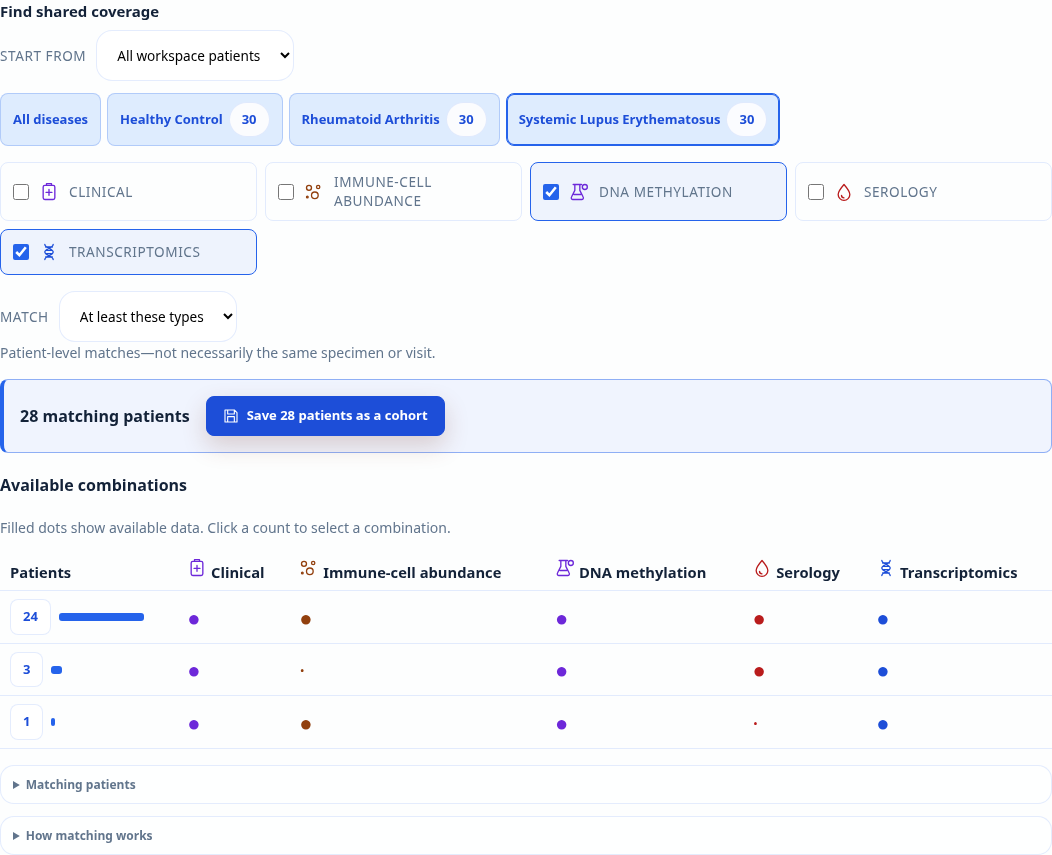
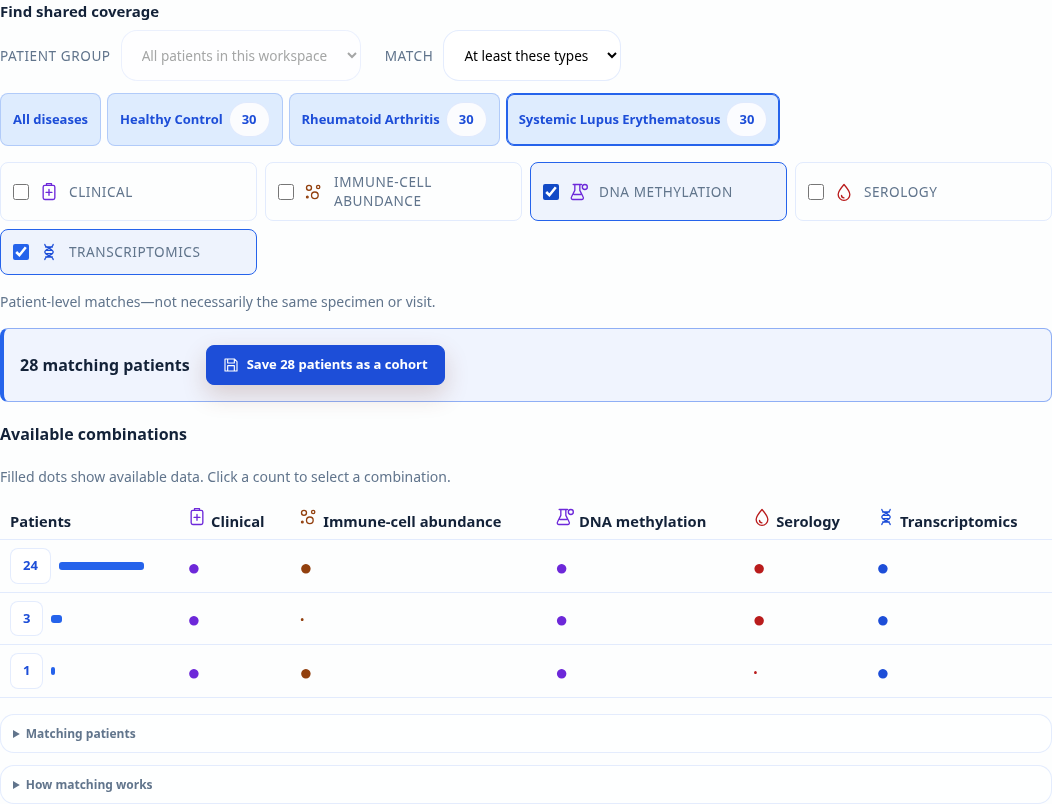
Update docs

diff --git a/scripts/capture_docs_screenshots.py b/scripts/capture_docs_screenshots.py
@@ -14,6 +14,7 @@ import os
 from pathlib import Path
 import queue
 import secrets
+import shutil
 import subprocess
 import sys
 import tempfile
@@ -26,10 +27,37 @@ ROOT = Path(__file__).resolve().parents[1]
 OUTPUT = ROOT / 'docs-site/static/img/screenshots'
 
 
+def prepare_variant_example(runtime):
+    """Fictional documentation-only panel; never changes the bundled dataset."""
+    root = Path(runtime) / 'documentation-demo'
+    shutil.copytree(ROOT / 'datasets/synthetic-longitudinal-demo', root)
+    manifest = json.loads((root / 'manifest.json').read_text())
+    manifest['biosamples'] = {'file': 'biosamples.json'}
+    manifest['variants'] = dict(schema_version=1, annotations_file='variants.tsv',
+        samples_file='variant-samples.tsv', genotypes_file='genotypes.tsv',
+        provenance={'technology': 'synthetic', 'method': 'Fictional documentation example'})
+    (root / 'manifest.json').write_text(json.dumps(manifest))
+    (root / 'biosamples.json').write_text(json.dumps([
+        {'id': f'DOC{i}', 'individualId': f'SYN{i:03}',
+         'sampleOriginType': {'id': 'UBERON:0000178', 'label': 'blood'}} for i in range(1, 4)]))
+    (root / 'variants.tsv').write_text(
+        'variant_id\tassembly\tchromosome\tposition\tref\talt\tgene\tclassification_source\n'
+        'DEMO-V1\tFictional\t22\t1000\tA\tG\tDEMO1\tFictional documentation example\n'
+        'DEMO-V2\tFictional\t22\t2000\tC\tT\tDEMO2\tFictional documentation example\n')
+    (root / 'variant-samples.tsv').write_text('sample_id\tpatient_id\tbiosample_id\n' +
+        ''.join(f'DOC{i}\tSYN{i:03}\tDOC{i}\n' for i in range(1, 4)))
+    (root / 'genotypes.tsv').write_text(
+        'variant_id\tsample_id\tGT\tcall_status\talt_dosage\tploidy\tphased\n' +
+        ''.join(f'DEMO-V{v}\tDOC{i}\t0/{int(i == v)}\tcalled\t{int(i == v)}\t2\tfalse\n'
+                for v in (1, 2) for i in range(1, 4)))
+    return root
+
+
 def main() -> int:
     parser = argparse.ArgumentParser(description=__doc__)
     parser.add_argument('--llm-url', help='Explicit OpenAI-compatible endpoint for the AI example')
     parser.add_argument('--llm-model', default='openai/gpt-oss-20b')
+    parser.add_argument('--updated-views', action='store_true', help='Capture only dataset, patient, assay, variant and multimodal views')
     args = parser.parse_args()
     plotly = ROOT / 'node_modules/plotly.js-dist-min/plotly.min.js'
     if not plotly.is_file():
@@ -45,6 +73,8 @@ def main() -> int:
         if args.llm_url:
             env.update(LM_STUDIO_ENABLED='true', LM_STUDIO_BASE_URL=args.llm_url,
                        LM_STUDIO_MODEL=args.llm_model, LM_STUDIO_TIMEOUT='120')
+        if args.updated_views:
+            env['COHORTOME_DOCS_EXAMPLE_ROOT'] = str(prepare_variant_example(runtime))
         # Only the two bundled fixtures are registered. No machine-local registry is read.
         subprocess.run([sys.executable, '-c', """
 from app.datasets import DATASET_REGISTRY_PATH, _seed_dataset_records
@@ -53,8 +83,15 @@ from app.query_store import prepare_dataset_query_store
 from app.lm import initialize_desktop_default_provider, update_managed_lm_provider
 import os
 bundled = {'default', 'synthetic-cross-sectional-demo'}
-atomic_write_json(DATASET_REGISTRY_PATH, [d for d in _seed_dataset_records() if d['dataset_id'] in bundled])
-prepare_dataset_query_store('default')
+records = [d for d in _seed_dataset_records() if d['dataset_id'] in bundled]
+if os.environ.get('COHORTOME_DOCS_EXAMPLE_ROOT'):
+    for record in records:
+        if record['dataset_id'] == 'default':
+            record['root_path'] = os.environ['COHORTOME_DOCS_EXAMPLE_ROOT']
+            record['dataset_id'] = 'documentation-demo'
+            record['name'] = 'Fictional documentation demo'
+atomic_write_json(DATASET_REGISTRY_PATH, records)
+prepare_dataset_query_store('documentation-demo' if os.environ.get('COHORTOME_DOCS_EXAMPLE_ROOT') else 'default')
 prepare_dataset_query_store('synthetic-cross-sectional-demo')
 initialize_desktop_default_provider()
 if os.environ.get('LM_STUDIO_ENABLED') == 'true':
@@ -82,7 +119,8 @@ if os.environ.get('LM_STUDIO_ENABLED') == 'true':
                     path=str(plotly), content_type='application/javascript'))
                 page = context.new_page()
                 page.goto(bootstrap, wait_until='networkidle')
-                response = page.request.post(url + '/datasets/select', data={'dataset_ids': ['default']})
+                initial_dataset = 'documentation-demo' if args.updated_views else 'default'
+                response = page.request.post(url + '/datasets/select', data={'dataset_ids': [initial_dataset]})
                 assert response.ok, response.status
                 page.reload(wait_until='networkidle')
 
@@ -105,6 +143,51 @@ if os.environ.get('LM_STUDIO_ENABLED') == 'true':
                     target.screenshot(path=str(OUTPUT / name), animations='disabled')
                     captured.append(name)
                     print(f'Captured {name}', flush=True)
+
+                if args.updated_views:
+                    panel_response = page.request.get(url + '/variants/panels?workspace=documentation-demo')
+                    assert panel_response.ok, panel_response.text()
+                    assert panel_response.json(), 'Documentation variant panel was not registered'
+                    page.locator('#dashboardTabBtn').click()
+                    page.locator('#dashboardPatientsBtn').click()
+                    expect(page.locator('#patientSampleOriginFilter')).to_be_visible()
+                    expect(page.locator('#patientOverviewMatches [data-match]').first).to_be_visible()
+                    capture('dashboard-patients.png', '#dashboardPatientsPanel')
+                    page.locator('#dashboardAssaysBtn').click()
+                    page.locator('#assayModalityTabs button', has_text='Genotyping').click()
+                    expect(page.locator('[data-variant-dataset]')).to_be_visible()
+                    capture('dashboard-assays.png', '#assayOverviewView')
+                    page.locator('[data-variant-dataset]').click()
+                    expect(page.locator('.variant-open').first).to_be_visible()
+                    page.locator('.variant-open').first.click()
+                    expect(page.locator('.variant-fields').first).to_be_visible()
+                    capture('variant-browser.png', '#variantBrowser')
+                    response = page.request.post(url + '/datasets/select', data={
+                        'dataset_ids': ['synthetic-cross-sectional-demo']})
+                    assert response.ok
+                    page.reload(wait_until='networkidle')
+                    page.locator('#dashboardTabBtn').click()
+                    page.locator('#dashboardMultimodalBtn').click()
+                    coverage = page.locator('.multimodal-coverage')
+                    expect(coverage.locator('.coverage-result')).to_contain_text('90 matching patients')
+                    coverage.locator('[data-disease="Systemic Lupus Erythematosus"]').click()
+                    coverage.locator('input[value=transcriptomics]').check()
+                    coverage.locator('input[value=methylation]').check()
+                    expect(coverage.locator('.coverage-result')).to_contain_text('28 matching patients')
+                    capture('multimodal-selection.png', '.multimodal-coverage')
+                    page.locator('#accountMenuButton').click()
+                    page.locator('#adminTabBtn').click()
+                    page.locator('#dataTabBtn').click()
+                    page.locator('#resourceAdd').click()
+                    expect(page.locator('#resourceList [data-resource]').first).to_be_visible()
+                    page.locator('#resourceBrowse').click()
+                    expect(page.locator('#resourceCatalogueStatus')).to_contain_text('Catalogue refreshed', timeout=20000)
+                    page.locator('[data-category="archive"]').click()
+                    expect(page.locator('.resource-card:visible')).to_contain_text('CINECA')
+                    capture('install-dataset.png', '#resourcePanel')
+                    browser.close()
+                    print(f'Captured {len(captured)} updated views using fictional documentation data.')
+                    return 0
 
                 page.locator('#dashboardTabBtn').click()
                 expect(page.locator('#contextCohort')).not_to_contain_text('Loading')

diff --git a/docs-site/docs/getting-started/desktop.md b/docs-site/docs/getting-started/desktop.md
@@ -14,13 +14,12 @@ Both use the same application code and research interface.
 
 :::info[No LLM required]
 
-Import and explore datasets, select and save cohorts, run supported queries,
-perform preconfigured analyses, use Pheno-Ranker, and export results without
-connecting a language model. You do not need LM Studio, an AI subscription,
-or hardware capable of running an LLM.
+**COHORTome works without an LLM.** You can explore data, build cohorts, run
+built-in analyses and Pheno-Ranker, and export results.
 
-A model adds natural-language query planning and AI-generated explanations.
-It is optional in both Desktop and Web deployments.
+**Connect a model if you want** natural-language query planning and help
+explaining results. This is optional on both Desktop and Web—**no AI
+subscription or LLM-capable computer is required** to use the app.
 
 :::
 

diff --git a/docs-site/docs/user-guide/dashboard.md b/docs-site/docs/user-guide/dashboard.md
@@ -109,6 +109,15 @@ imaging measurements.
 
 ![Assay overview distinguishing patient coverage by modality from assay counts in the synthetic workspace](/img/screenshots/dashboard-assays.png)
 
+Choose **Browse variants** on a prepared panel to search variants, inspect
+annotations and save carriers as a cohort. Genotype dosage matrices do not
+offer this browser.
+
+![Variant browser showing fictional variants, call counts and the carrier-cohort action](/img/screenshots/variant-browser.png)
+
+*The patient-origin and variant examples shown here use a fictional documentation
+fixture, not an additional dataset included with the app.*
+
 ## Imaging dashboard
 
 Open a listed study when its viewer is available. COHORTome launches OHIF;

diff --git a/CHANGELOG.md b/CHANGELOG.md
@@ -3,6 +3,8 @@
 ## Unreleased
 
 - Improve dataset loading, error handling and release packaging.
+- Add variant-panel browsing, carrier cohorts and biosample-origin filters.
+- Update the Store catalogue and multimodal controls.
 
 ## 0.1.0 - 2026-10-25
 
